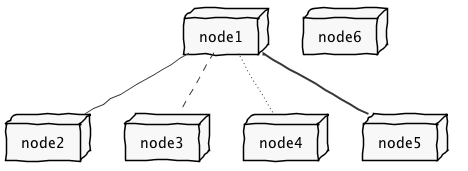
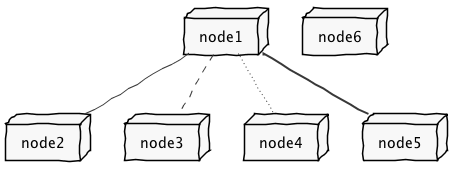
Added image example in main readme.MD.

diff --git a/README.md b/README.md
@@ -100,166 +100,14 @@ Every student will work on his/her own folder in the repository. The folder shou
 
 Inside the student folder there should be a subfolder for each Sprint. Their names should be **sp1** through **sp5**. Inside these folder there should be a file named **readme.MD** with documentation about the Sprint. All the files/artifacts used for the Sprint should be inside these folders (or in subfolders of theses folders).
 
+**Images and PlantUml**
 
+This repository includes a **build.gradle** file that can be used to generated images for PlantUML diagrams.
 
-- using markdown
+For processing all **.puml** files in the repository simply type in the root:
 
-- making references to images
+	gradle renderPlantUml
 
-- using plantuml and generating images
+For instance, the next image was generated with this command. The PlantUml file is **net.puml** (located in the root of the repository) and the resulting image is **net.png** (also located in the rrot of the repository).
 
-
-- [Another type of link](https://bitbucket.org/atb/cogsi-17-18-rep-template/src/master/student/?fileviewer=file-view-default)
-
-
-How to insert an image:
-
-![alt text](https://bitbucket.org/atb/cogsi-17-18-rep-template/raw/master/imgs/git.jpg?fileviewer=file-view-default "Logo Title Text 1")
-
-
-# 1. Overview
-
-This is an eclipse project. You can open it with eclipse. It includes also a build.gradle file and you can (and should) execute the building tasks from a terminal or console using gradle (the project uses the gradle wrapper, so you can use gradlew instead of gradle). The single exception is for Debug that requires the use of Eclipse.
-
-To use this project you should download it from bitbucket (in Bitbucket use option "Downloads"). **Do not clone it!**
-
-You should then copy the downloaded files into a folder inside your repository. **Commit these new files into your own repository.**
-
-To use this project first create an eclipse workspace **outside** of the folder that contains your repository.
-
-You should open this project by using the option "File/Import..."/"Existing Projects into Workspace" and select as root directory the root of your repository. Select the project to import (i..e, CMS). **Do NOT check "Copy projects into workspace"**
-
-# 2. Important Remarks
-
-## 2.1 GWT SDK Settings in Eclipse
-
-It may be necessary to configure the location of the GWT SDK in the properties of the eclipse project. With the right mouse button in the cms project select "Properties". Then "GWT/General Settings". Verify if the GWT SDK settings points to your location (and version should be 2.8.1).
-
-## 2.2 Gradle Properties
-
-The file `gradle.properties` contains the location of the GWT SDK and the location of Ant. You should update this file to match the location of these tools in your system (the Ant part should be optional).
-
-# 3. Eclipse Requirements
-
-Before importing the project you should be sure to provide the following requirements.
-
-## 3.1 GWT Eclipse Plugin
-
-Install the GWT Eclipse Plugin by using "Help/Eclipse Markeplace..." and serch for and install "GWT Ecplise Plugin".
-
-## 3.2 GWT SDK
-
-You should download and install the GWT SDK into your computer (http://www.gwtproject.org).
-
-# 4. How to Run
-
-Execute in a terminal `gradle gwtRun`
-
-The server starts and the screen displays something like this:
-
-	:compileJava UP-TO-DATE
-	:processResources UP-TO-DATE
-	:classes UP-TO-DATE
-	:gwtCompile UP-TO-DATE
-	:war UP-TO-DATE
-	:gwtRun
-	Listening for transport dt_socket at address: 8000
-	2017-10-06 15:55:47.055:INFO::main: Logging initialized @232ms
-	2017-10-06 15:55:47.066:INFO:oejr.Runner:main: Runner
-	2017-10-06 15:55:47.271:INFO:oejs.Server:main: jetty-9.2.7.v20150116
-	2017-10-06 15:55:48.992:INFO:oejsh.ContextHandler:main: Started o.e.j.w.WebAppContext@68ceda24...
-	2017-10-06 15:55:48.993:WARN:oejsh.RequestLogHandler:main: !RequestLog
-	2017-10-06 15:55:49.033:INFO:oejs.ServerConnector:main: Started ServerConnector@177630fe{HTTP/1.1}{0.0.0.0:8080}
-	2017-10-06 15:55:49.036:INFO:oejs.Server:main: Started @2218ms
-	> Building 83% > :gwtRun
-
-Now you can open Chrome and use the following url to access the application: [http://localhost:8080/Showcase.html](http://localhost:8080/Showcase.html)
-
-To stop the server open another terminal/console and type `gradle gwtStop`
-
-# 5. How to Debug the Server Code
-
-## 5.1 Running the Application from the command line
-
-To debug the server code you can run the application as described earlier.
-
-After that, in Eclipse, you can create a new configuration of type "Remote Java Application". Enter the following data:
-- Project: CMS (select the CMS project)
-- Server: localhost
-- Port: 8000
-
-In the "Source" tab also select the CMS project.
-
-**Notes:**
-
-- You must run the server application before running the new run configuration of eclipse. This is because the debug port 8000 must be open by the server before starting the debug in Eclipse.
-
-- Also note that there is a "debugSuspend" property in gradle (default value is "false") that you can set so that the server waits for the start of the Eclipse debug session.
-
-## 5.2 Running the Application from Eclipse
-
-You can also set up a "GWT Development Mode (Dev Mode)" configuration in Eclipse. If you do that, eclipse will launch the GWT Application in Debug Mode. In this case it is not necesssary to run the Application from the command line.
-
-Setup the "GWT Development Mode (Dev Mode)" in this way:
-
-- In tab "Main"
-
-	1. Select the project CMS
-	2. As main classe enter: "com.google.gwt.dev.DevMode"
-
-- In tab "Server"
-
-	1. Check "Run built-in server"
-	2. Port: 8888
-
-- In tab "GWT"
-
-	1. Check "Super Development Mode"
-	2. In avalable modules select "pt.isep.cms.Showcase"
-
-- In tab "Arguments"
-
-	1. In program arguments enter:
-
-	-remoteUI "${gwt_remote_ui_server_port}:${unique_id}" -logLevel INFO -codeServerPort 9997 -war /workspaces/odsoft/2017/odsoft-edom-2017/cms/src/main/webapp -port 8888 pt.isep.cms.Showcase
-
-Note: You should replace "/workspaces/odsoft/2017/odsoft-edom-2017/cms/src/main/webapp" by your own path.
-
-- In the tab "classpath" add an entry for the sources of the project, i.e., /cms/src/main/java
-
-# 6. How to Debug the Client Code
-
-The simplest way to debug the client code is to use a "Launch Chrome" configuration in Eclipse.
-
-Create a "Launch Chrome" configuration:
-
-- In the "Main" tab:
-
-	1. In URL enter "http://127.0.0.1:8888/Showcase.html"
-	2. In Project select the "cms" project
-
-**Notes:**
-
-- Remember that the server must be running! You should run the server in debug mode using a running configuration in Eclipse or the `gwtDev` task in gradle.
-
-- Confirm that the port number is correct (either 8888 or other you have setup)
-
-# 7. Using the Command Line with Gradle
-
-To get a list of available GWT tasks simple type **gradle tasks** in a terminal or console.
-
-Some common commands:
-
-**gradle build**: builds the application (a **war** file is produced in **build/libs**)
-
-**gradle gwtRun**: the jetty web serever is started (using port 8080) to serve the application. You can open the application in a browser with the following url <http://127.0.0.1:8080/Contacts.html>
-
-**gradle gwtDev**: gwt starts in development mode. You should be able to update the code of the application and the changes should be automatically visible. You can open the application in a browser with the following url <http://127.0.0.1:8080/Contacts.html>
-
-# 8. Credits
-
-This project is based on examples from the GWT project (http://www.gwtproject.org), specially:
-
-- http://samples.gwtproject.org/samples/Showcase/Showcase.html
-
-- http://www.gwtproject.org/articles/mvp-architecture.html
+![alt text](https://bitbucket.org/atb/cogsi-17-18-rep-template/raw/master/net.png?fileviewer=file-view-default "Logo Title Text 1")
